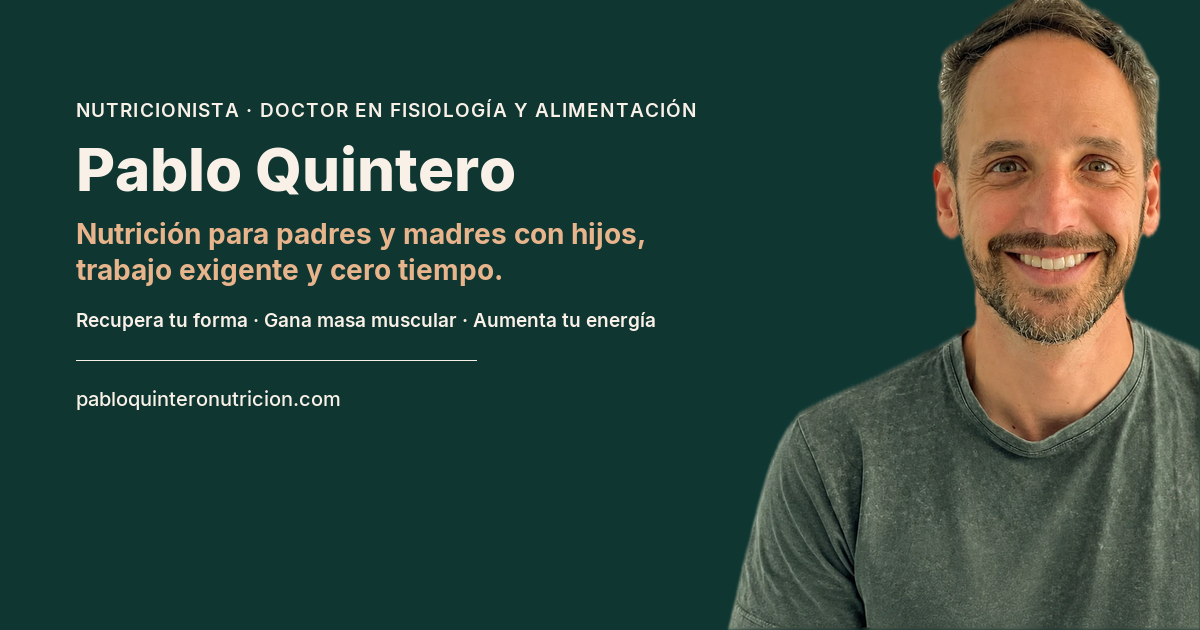
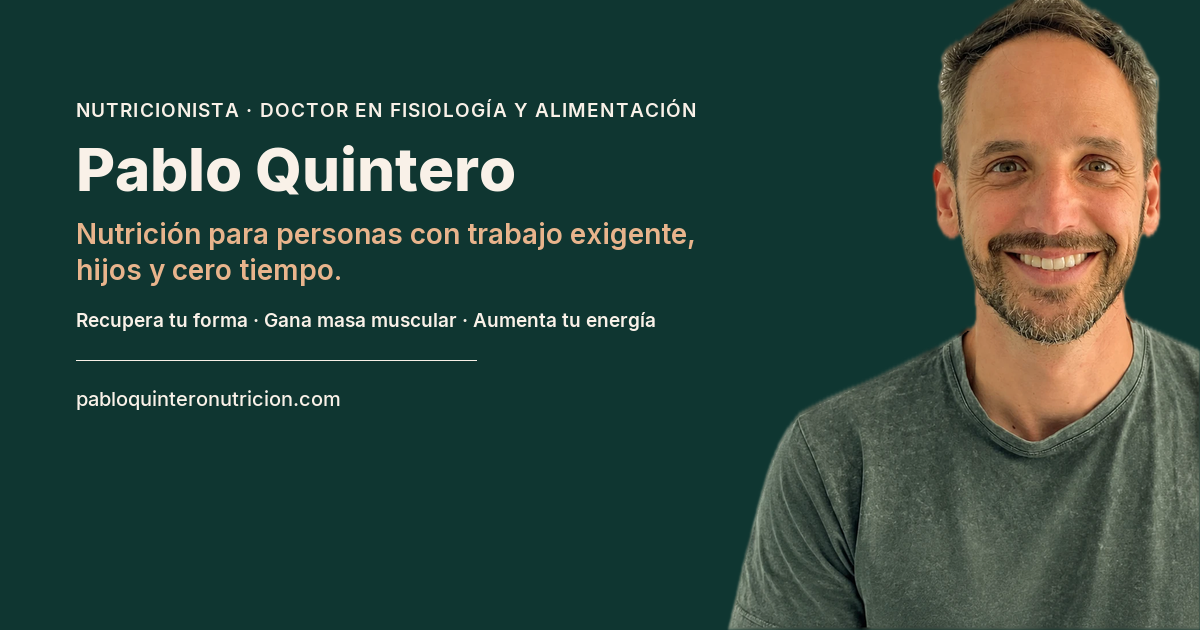
Make share preview inclusive: drop 'padres y madres' from meta tags and OG card
Tagline now matches the hero: 'Nutrición para personas con trabajo
exigente, hijos y cero tiempo.' Bump og-card.png with ?v=2 so WhatsApp
and other scrapers refetch the image.

Changed region(s): [[0.0617, 0.3619, 0.5858, 0.4524]]

diff --git a/index.html b/index.html
@@ -3,8 +3,8 @@
 <head>
 <meta charset="UTF-8">
 <meta name="viewport" content="width=device-width, initial-scale=1">
-<title>Pablo Quintero — Nutrición para padres y madres con semanas imposibles · Tenerife y online</title>
-<meta name="description" content="Nutrición para padres y madres con hijos, trabajo exigente y semanas imposibles. Recupera tu forma y energía con Pablo Quintero, Doctor (PhD) en Fisiología y Alimentación. Tenerife y online.">
+<title>Pablo Quintero — Nutrición para semanas imposibles · Tenerife y online</title>
+<meta name="description" content="Nutrición para personas con trabajo exigente, hijos y cero tiempo. Recupera tu forma y energía con Pablo Quintero, Doctor (PhD) en Fisiología y Alimentación. Tenerife y online.">
 <link rel="canonical" href="https://pabloquinteronutricion.com/">
 <meta name="theme-color" content="#0f3631">
 <link rel="icon" type="image/svg+xml" href="favicon.svg">
@@ -13,16 +13,16 @@
 <meta property="og:locale" content="es_ES">
 <meta property="og:site_name" content="Pablo Quintero — Nutrición">
 <meta property="og:url" content="https://pabloquinteronutricion.com/">
-<meta property="og:title" content="Pablo Quintero — Nutrición para padres y madres con semanas imposibles">
-<meta property="og:description" content="Nutrición para padres y madres con hijos, trabajo exigente y semanas imposibles. Recupera tu forma y energía con Pablo Quintero, Doctor (PhD) en Fisiología y Alimentación. Tenerife y online.">
-<meta property="og:image" content="https://pabloquinteronutricion.com/assets/og-card.png">
+<meta property="og:title" content="Pablo Quintero — Nutrición para semanas imposibles">
+<meta property="og:description" content="Nutrición para personas con trabajo exigente, hijos y cero tiempo. Recupera tu forma y energía con Pablo Quintero, Doctor (PhD) en Fisiología y Alimentación. Tenerife y online.">
+<meta property="og:image" content="https://pabloquinteronutricion.com/assets/og-card.png?v=2">
 <meta property="og:image:width" content="1200">
 <meta property="og:image:height" content="630">
 <meta property="og:image:alt" content="Pablo Quintero — Nutrición para semanas imposibles">
 <meta name="twitter:card" content="summary_large_image">
-<meta name="twitter:title" content="Pablo Quintero — Nutrición para padres y madres con semanas imposibles">
-<meta name="twitter:description" content="Nutrición para padres y madres con hijos, trabajo exigente y semanas imposibles. Recupera tu forma y energía con Pablo Quintero, Doctor (PhD) en Fisiología y Alimentación. Tenerife y online.">
-<meta name="twitter:image" content="https://pabloquinteronutricion.com/assets/og-card.png">
+<meta name="twitter:title" content="Pablo Quintero — Nutrición para semanas imposibles">
+<meta name="twitter:description" content="Nutrición para personas con trabajo exigente, hijos y cero tiempo. Recupera tu forma y energía con Pablo Quintero, Doctor (PhD) en Fisiología y Alimentación. Tenerife y online.">
+<meta name="twitter:image" content="https://pabloquinteronutricion.com/assets/og-card.png?v=2">
 
 <link rel="preconnect" href="https://fonts.googleapis.com">
 <link rel="preconnect" href="https://fonts.gstatic.com" crossorigin>
@@ -37,7 +37,7 @@
       "@type": "MedicalBusiness",
       "@id": "https://pabloquinteronutricion.com/#business",
       "name": "Pablo Quintero — Nutrición",
-      "description": "Nutrición para padres y madres con hijos, trabajo exigente y semanas imposibles. Recupera tu forma y energía con Pablo Quintero, Doctor (PhD) en Fisiología y Alimentación. Tenerife y online.",
+      "description": "Nutrición para personas con trabajo exigente, hijos y cero tiempo. Recupera tu forma y energía con Pablo Quintero, Doctor (PhD) en Fisiología y Alimentación. Tenerife y online.",
       "url": "https://pabloquinteronutricion.com/",
       "image": "https://pabloquinteronutricion.com/assets/pablo-hero.png",
       "telephone": "+34642104190",
@@ -59,7 +59,7 @@
       "@id": "https://pabloquinteronutricion.com/#pablo",
       "name": "Pablo Quintero",
       "jobTitle": "Nutricionista",
-      "description": "Nutricionista y Doctor (PhD) en Fisiología y Alimentación por la Universidad de Navarra. Nutrición para padres y madres con semanas imposibles.",
+      "description": "Nutricionista y Doctor (PhD) en Fisiología y Alimentación por la Universidad de Navarra. Nutrición para semanas imposibles.",
       "image": "https://pabloquinteronutricion.com/assets/pablo-hero.png",
       "worksFor": { "@id": "https://pabloquinteronutricion.com/#business" },
       "alumniOf": {

diff --git a/_includes/head.html b/_includes/head.html
@@ -13,14 +13,14 @@
 <meta property="og:url" content="{{ page.url | absolute_url }}">
 <meta property="og:title" content="{{ page.title | default: site.title }}">
 <meta property="og:description" content="{{ page.description | default: site.description }}">
-<meta property="og:image" content="{{ '/assets/og-card.png' | absolute_url }}">
+<meta property="og:image" content="{{ '/assets/og-card.png' | absolute_url }}?v=2">
 <meta property="og:image:width" content="1200">
 <meta property="og:image:height" content="630">
 <meta property="og:image:alt" content="Pablo Quintero — Nutrición para semanas imposibles">
 <meta name="twitter:card" content="summary_large_image">
 <meta name="twitter:title" content="{{ page.title | default: site.title }}">
 <meta name="twitter:description" content="{{ page.description | default: site.description }}">
-<meta name="twitter:image" content="{{ '/assets/og-card.png' | absolute_url }}">
+<meta name="twitter:image" content="{{ '/assets/og-card.png' | absolute_url }}?v=2">
 
 <link rel="alternate" type="application/atom+xml" title="Pablo Quintero — Blog" href="{{ '/feed.xml' | absolute_url }}">
 

diff --git a/blog/index.html b/blog/index.html
@@ -1,7 +1,7 @@
 ---
 layout: default
 title: Blog
-description: Artículos sobre nutrición, energía y hábitos para padres y madres con semanas imposibles, por Pablo Quintero, Doctor en Fisiología y Alimentación.
+description: Artículos sobre nutrición, energía y hábitos para personas con trabajo exigente, hijos y cero tiempo, por Pablo Quintero, Doctor en Fisiología y Alimentación.
 permalink: /blog/
 ---
 <section class="section" style="padding-bottom:0;">
